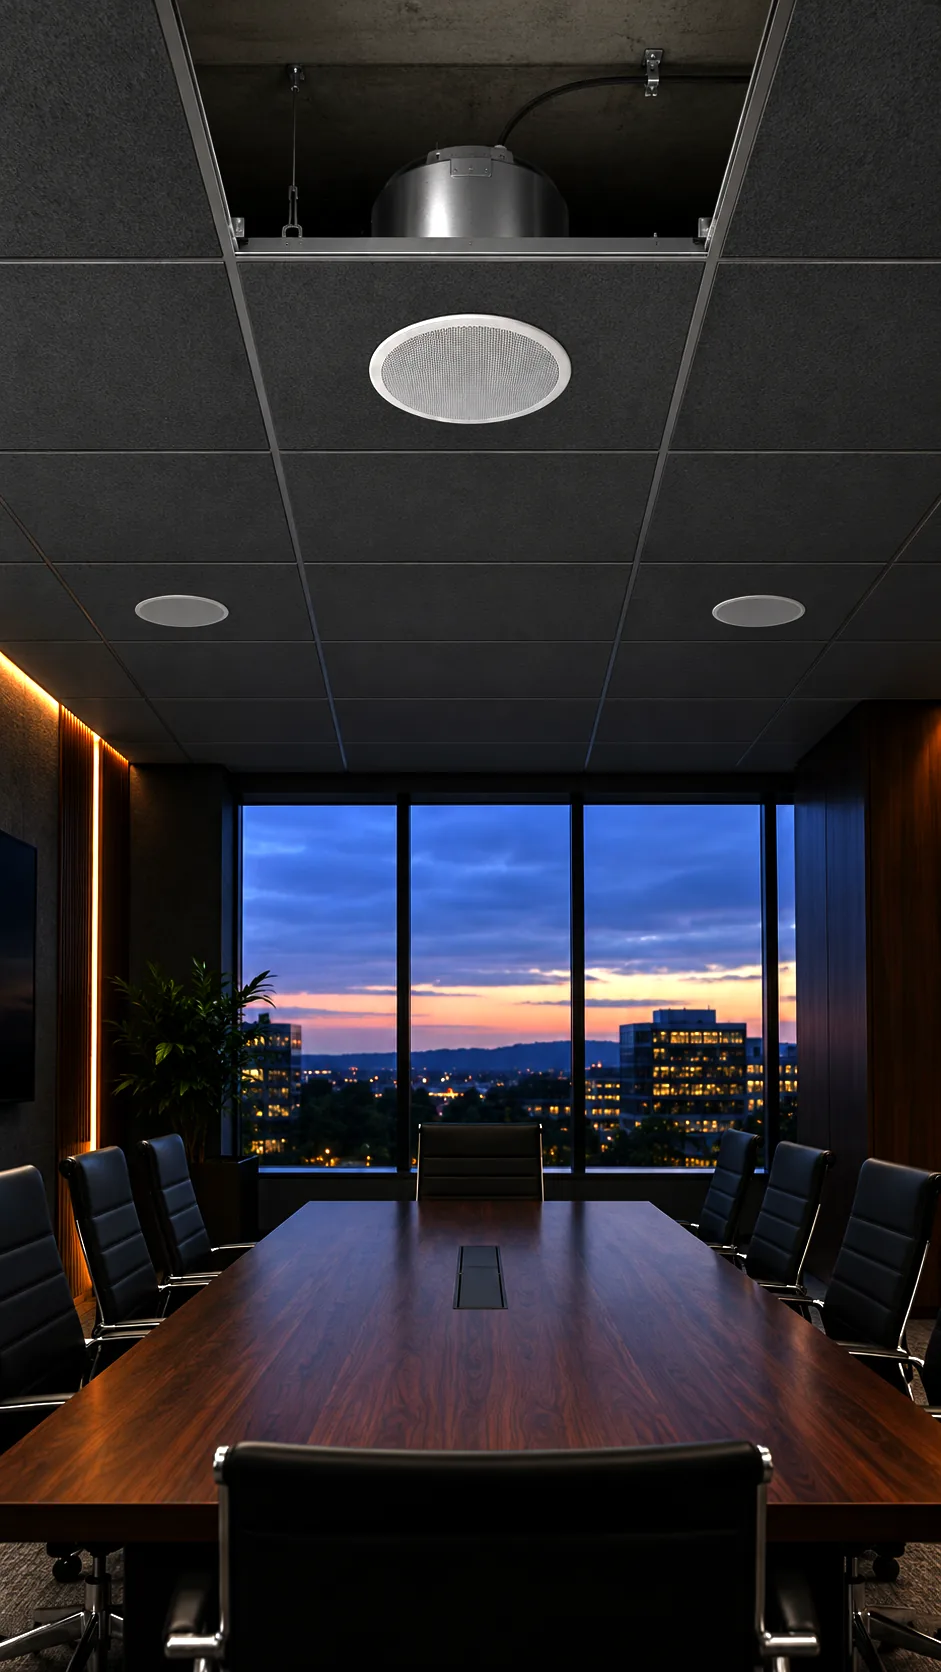
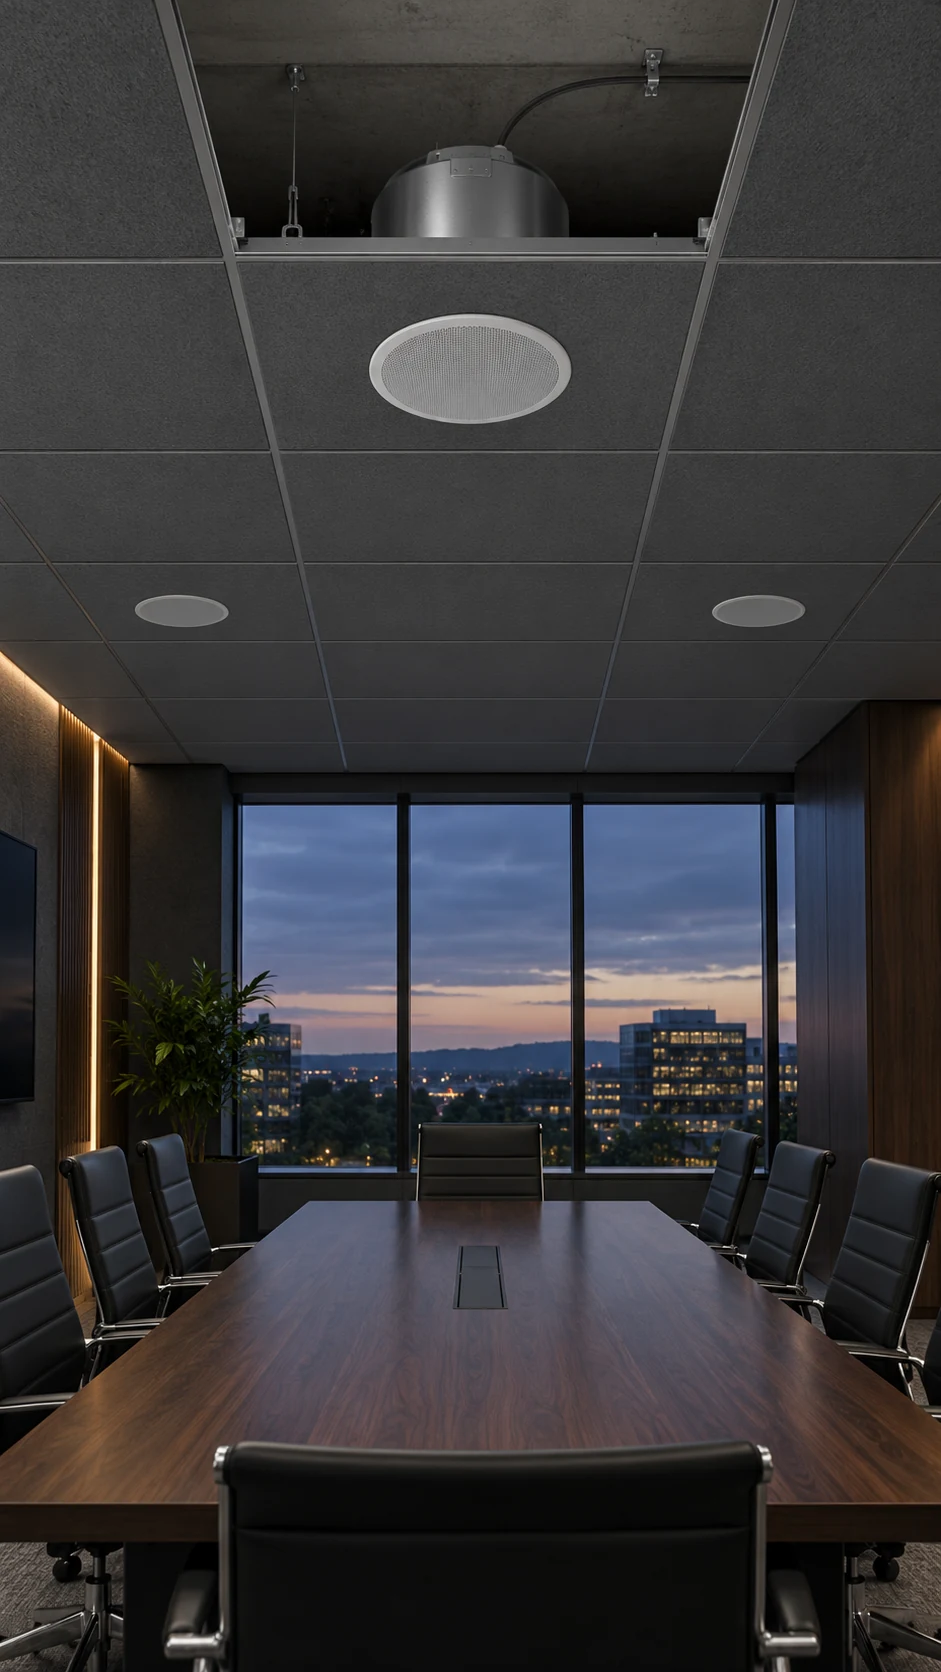
Home: 70V card shows its art in the original colours, no wash
Owner 2026-10-23: 'for this image do not apply any additional dimming/graying
... let the image show as original colors and brightness'. Grading reverted
(plain WebP of the owner's PNG, q88), and bundled study-area art skips the
card's dark legibility gradient; the title keeps its dark shadow.

diff --git a/src/screens/courses/CourseSelectionScreen.tsx b/src/screens/courses/CourseSelectionScreen.tsx
@@ -515,7 +515,8 @@ const ENROLLMENTS_CARD_ART = require('../../../assets/home-cards/enrollments_car
 /** Study-area art shipped IN the app (owner 2026-10-23: new Commercial 70V
  *  art). Bundled rather than re-uploaded: the bucket's files are cached
  *  `immutable` for a year by URL, so a same-name replacement would never
- *  reach a phone that already has the old one. Wins over CARD_IMAGE. */
+ *  reach a phone that already has the old one. Wins over CARD_IMAGE, and
+ *  shows UNPROCESSED with no legibility wash (owner 2026-10-23). */
 const SHOWCASE_LOCAL_ART: Record<string, number> = {
   'Commercial 70V Systems': require('../../../assets/home-cards/area_commercial-70v.webp'),
 };
@@ -1130,11 +1131,16 @@ function CourseCardView({
     const openArea = () => onOpenShowcase(item.name);
     const showBody = (
       <>
-        <LinearGradient
-          colors={['rgba(8,8,10,0.55)', 'rgba(8,8,10,0)', 'rgba(8,8,10,0.45)', 'rgba(8,8,10,0.95)']}
-          locations={[0, 0.3, 0.58, 1]}
-          style={StyleSheet.absoluteFill}
-        />
+        {/* The legibility wash — not on bundled owner art, which shows in its
+            own colours and brightness (owner 2026-10-23: "do not apply any
+            additional dimming/graying"; the title keeps its dark shadow). */}
+        {localArt ? null : (
+          <LinearGradient
+            colors={['rgba(8,8,10,0.55)', 'rgba(8,8,10,0)', 'rgba(8,8,10,0.45)', 'rgba(8,8,10,0.95)']}
+            locations={[0, 0.3, 0.58, 1]}
+            style={StyleSheet.absoluteFill}
+          />
+        )}
         <View>
           <Text style={styles.cardTitle} maxFontSizeMultiplier={HOME_MAX}>{item.name}</Text>
         </View>
